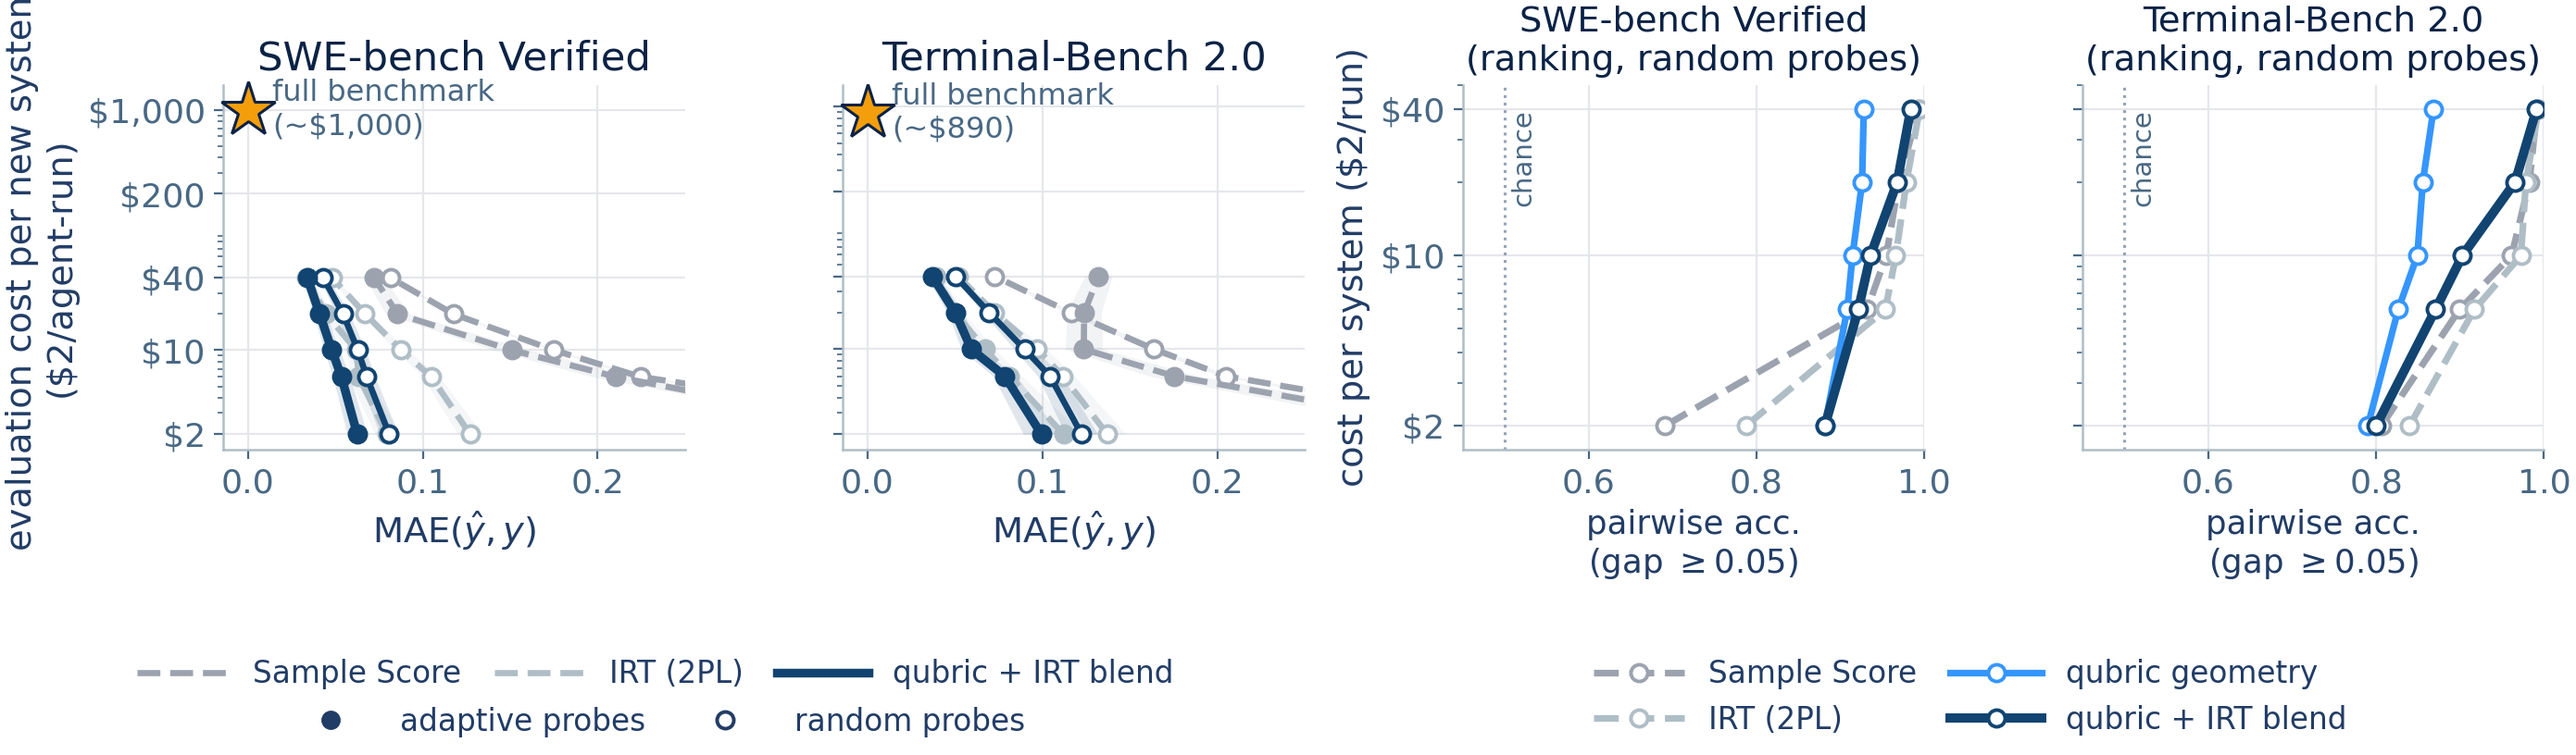
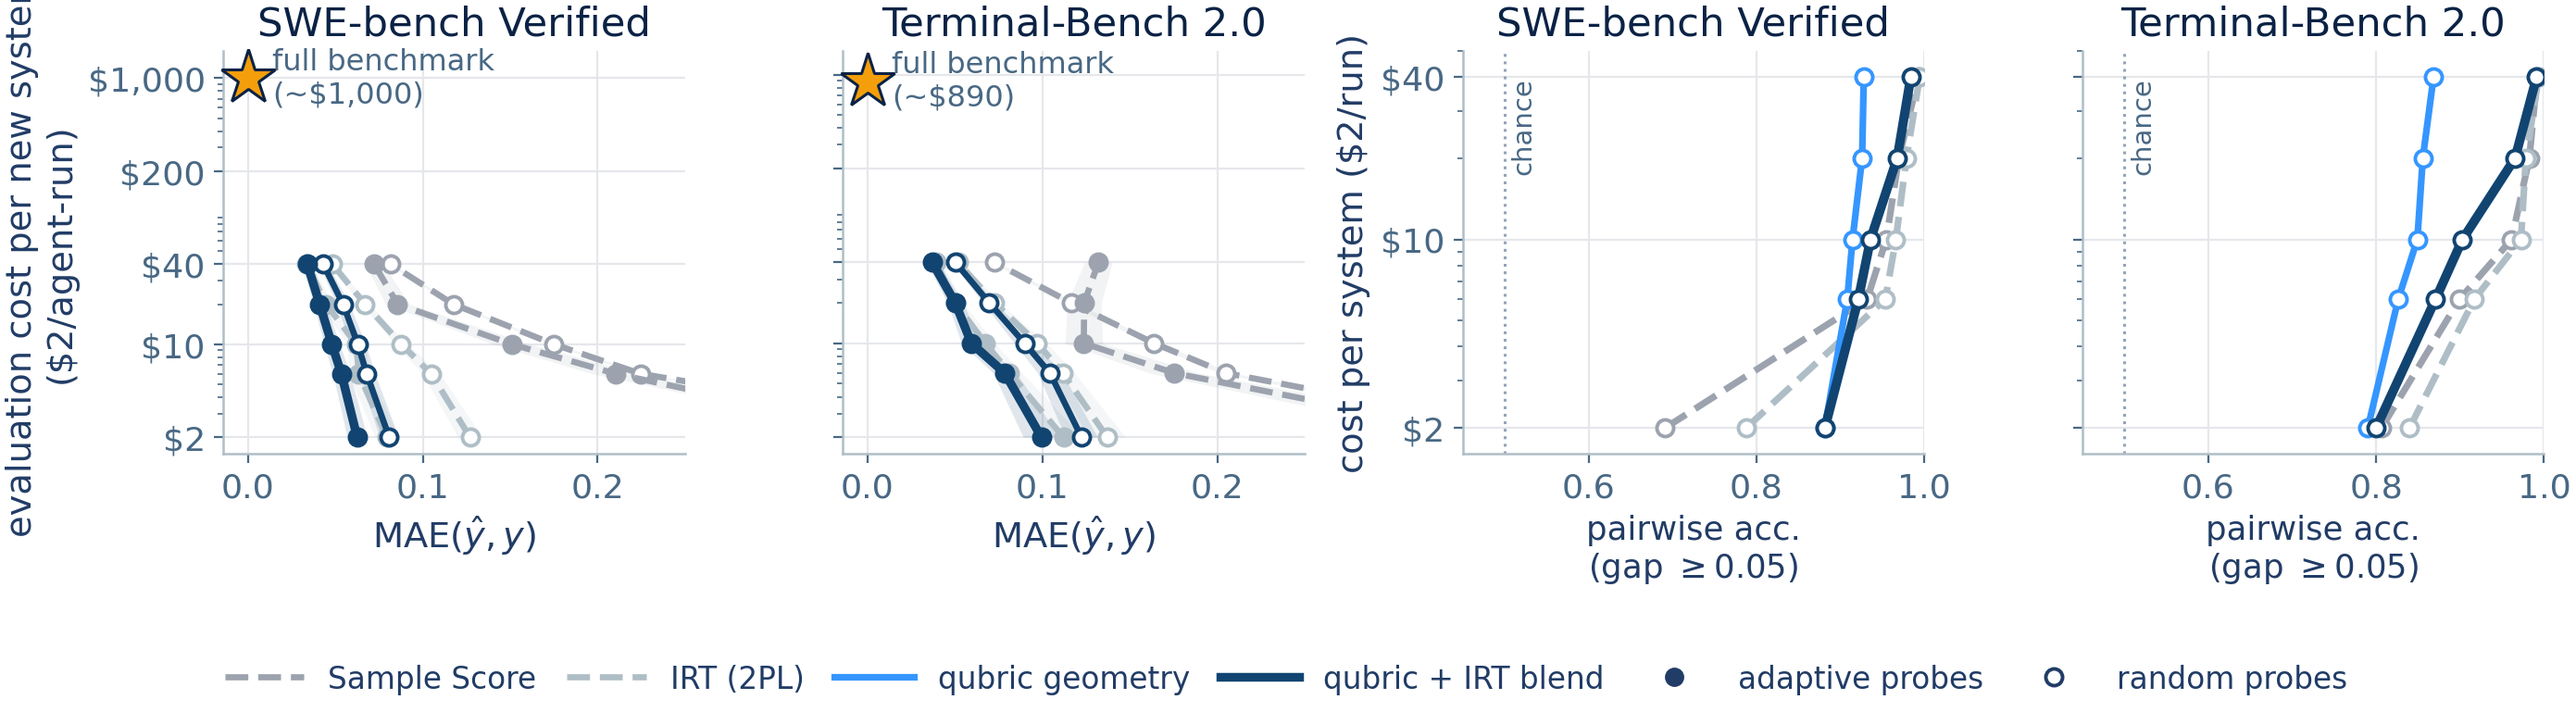
cost figure: single merged legend, drop ranking subtitles, shorter ylabel
Claude-Session: https://claude.ai/code/session_01RGusFFXzoPTkSKgzzDLjNv

diff --git a/scripts/fig_cost.py b/scripts/fig_cost.py
@@ -120,8 +120,8 @@ def main():
         ax.set_yticklabels(['\\$2', '\\$10', '\\$40'])
         ax.set_ylim(1.6, 50)
         ax.set_xlim(.45, 1.0)
-        ax.set_title(f'{title}\n(ranking, random probes)',
-                     fontsize=SZ['subtitle'], color=hv_style.INK_TITLE)
+        ax.set_title(title, fontsize=SZ['label'],
+                     color=hv_style.INK_TITLE)
         ax.set_xlabel('pairwise acc.\n(gap $\\geq 0.05$)',
                       fontsize=SZ['subtitle'] - 1)
         ax.tick_params(labelsize=SZ['tick'])
@@ -129,31 +129,25 @@ def main():
                        fontsize=SZ['subtitle'])
     axes[3].set_yticklabels([])
 
-    # split legends (orthogonal factors): method (color) + probe regime
-    # (line style) under panels 1-2; ranking methods under panels 3-4
+    # one legend for the whole figure: 4 methods + the 2 marker fills
     from matplotlib.lines import Line2D
     ink = hv_style.INK
-    meth = [Line2D([], [], color=hv_style.ROLES[r]['color'], lw=lw_,
-                   ls=hv_style.ROLES[r]['ls'], label=lab)
-            for r, lw_, lab in
-            (('baseline_gray', 2.4, 'Sample Score'),
-             ('baseline_pale', 2.4, 'IRT (2PL)'),
-             ('anchor', 3.4, 'qubric + IRT blend'))]
-    reg = [Line2D([], [], color=ink, lw=0, marker='o', ms=6.5,
-                  markerfacecolor=ink, label='adaptive probes'),
-           Line2D([], [], color=ink, lw=0, marker='o', ms=6.5,
-                  markerfacecolor='white', markeredgecolor=ink,
-                  markeredgewidth=1.4, label='random probes')]
-    h2, l2 = axes[2].get_legend_handles_labels()
-    fig.legend(handles=meth, fontsize=SZ['legend'] - 2, handlelength=3.0,
-               loc='upper center', bbox_to_anchor=(0.26, 0.035), ncol=3,
-               columnspacing=1.1, frameon=False)
-    fig.legend(handles=reg, fontsize=SZ['legend'] - 2, handlelength=3.0,
-               loc='upper center', bbox_to_anchor=(0.26, -0.035), ncol=2,
-               columnspacing=1.1, frameon=False)
-    fig.legend(h2, l2, fontsize=SZ['legend'] - 2, handlelength=3.0,
-               loc='upper center', bbox_to_anchor=(0.76, 0.035), ncol=2,
-               columnspacing=1.1, frameon=False)
+    handles = [Line2D([], [], color=hv_style.ROLES[r]['color'], lw=lw_,
+                      ls=hv_style.ROLES[r]['ls'], label=lab)
+               for r, lw_, lab in
+               (('baseline_gray', 2.4, 'Sample Score'),
+                ('baseline_pale', 2.4, 'IRT (2PL)'),
+                ('focus', 2.6, 'qubric geometry'),
+                ('anchor', 3.4, 'qubric + IRT blend'))]
+    handles += [Line2D([], [], color=ink, lw=0, marker='o', ms=6.5,
+                       markerfacecolor=ink, label='adaptive probes'),
+                Line2D([], [], color=ink, lw=0, marker='o', ms=6.5,
+                       markerfacecolor='white', markeredgecolor=ink,
+                       markeredgewidth=1.4, label='random probes')]
+    fig.legend(handles=handles, fontsize=SZ['legend'] - 2,
+               handlelength=2.6, loc='upper center',
+               bbox_to_anchor=(0.5, 0.035), ncol=6,
+               columnspacing=1.0, frameon=False)
     fig.tight_layout(rect=(0, 0.05, 1, 1))
     fig.savefig('figures/fig_cost.png', dpi=200, bbox_inches='tight',
                 pad_inches=0.03)
